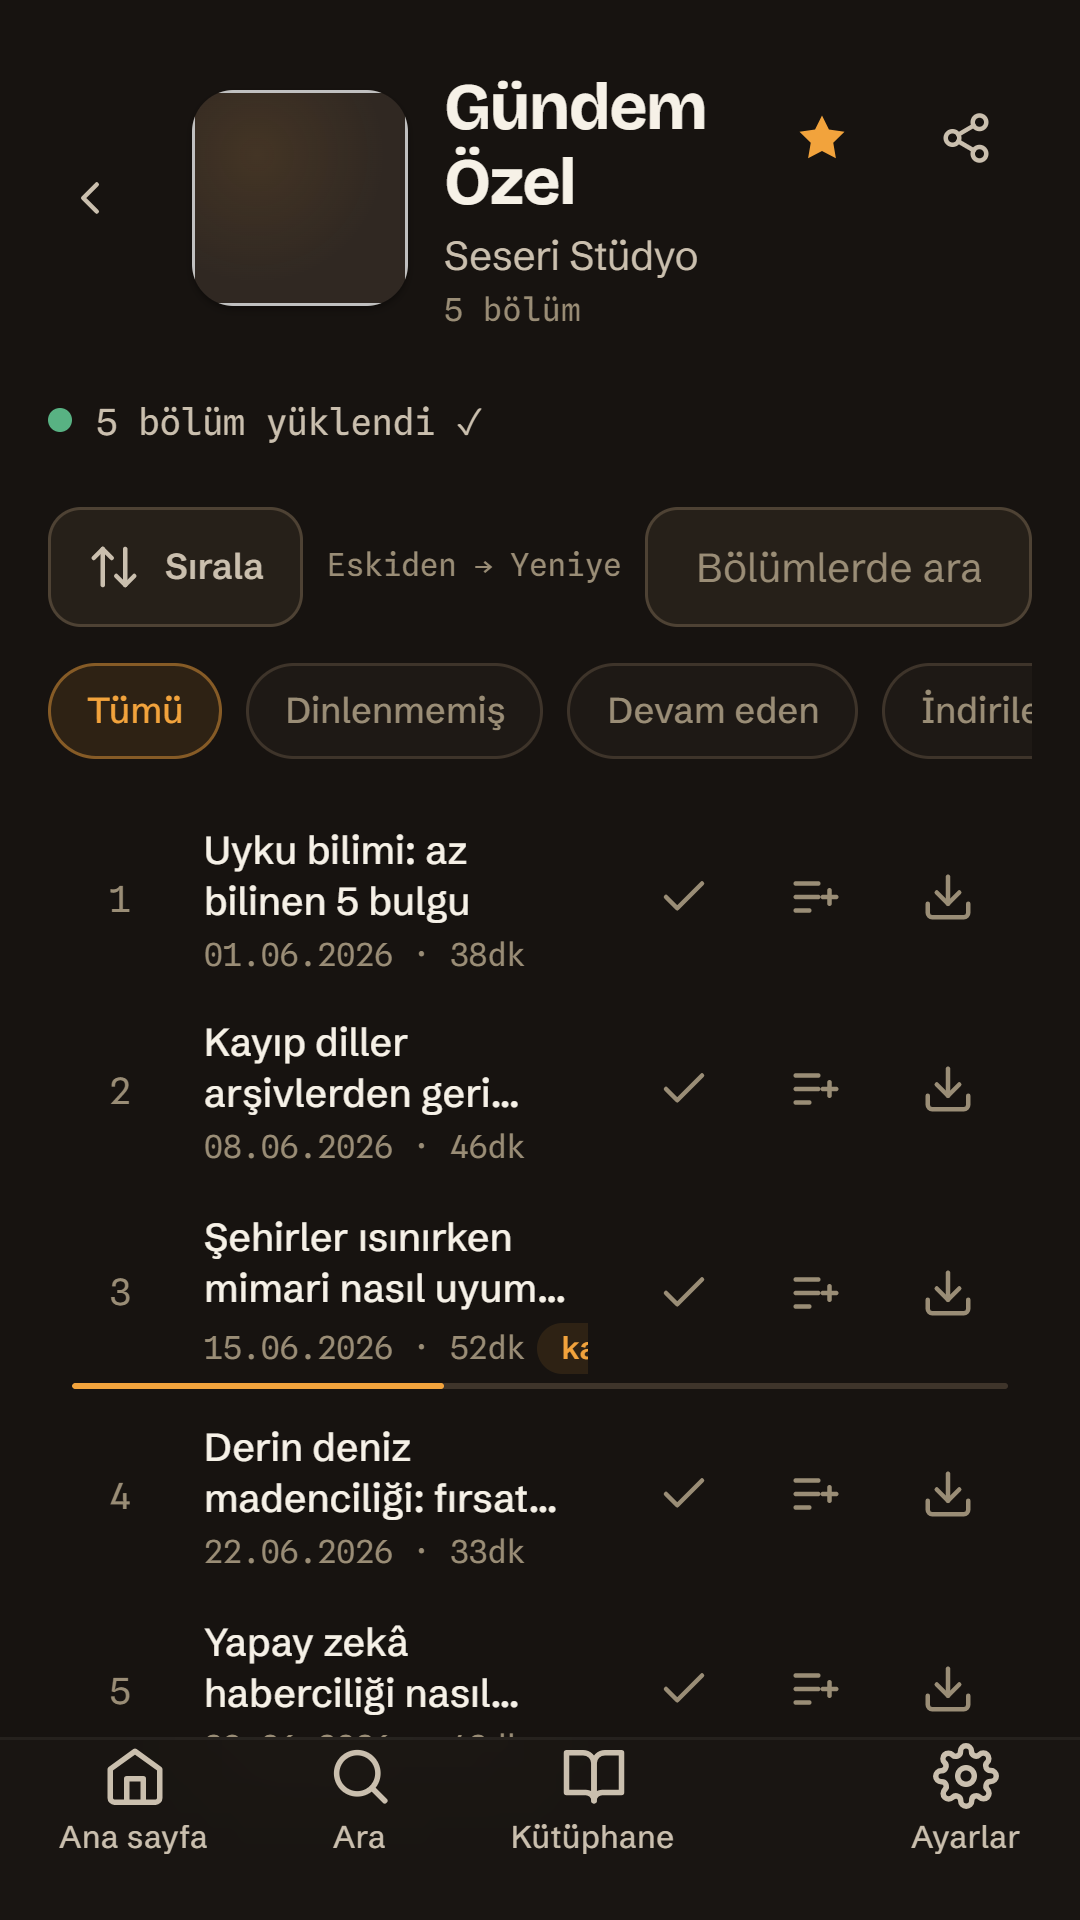
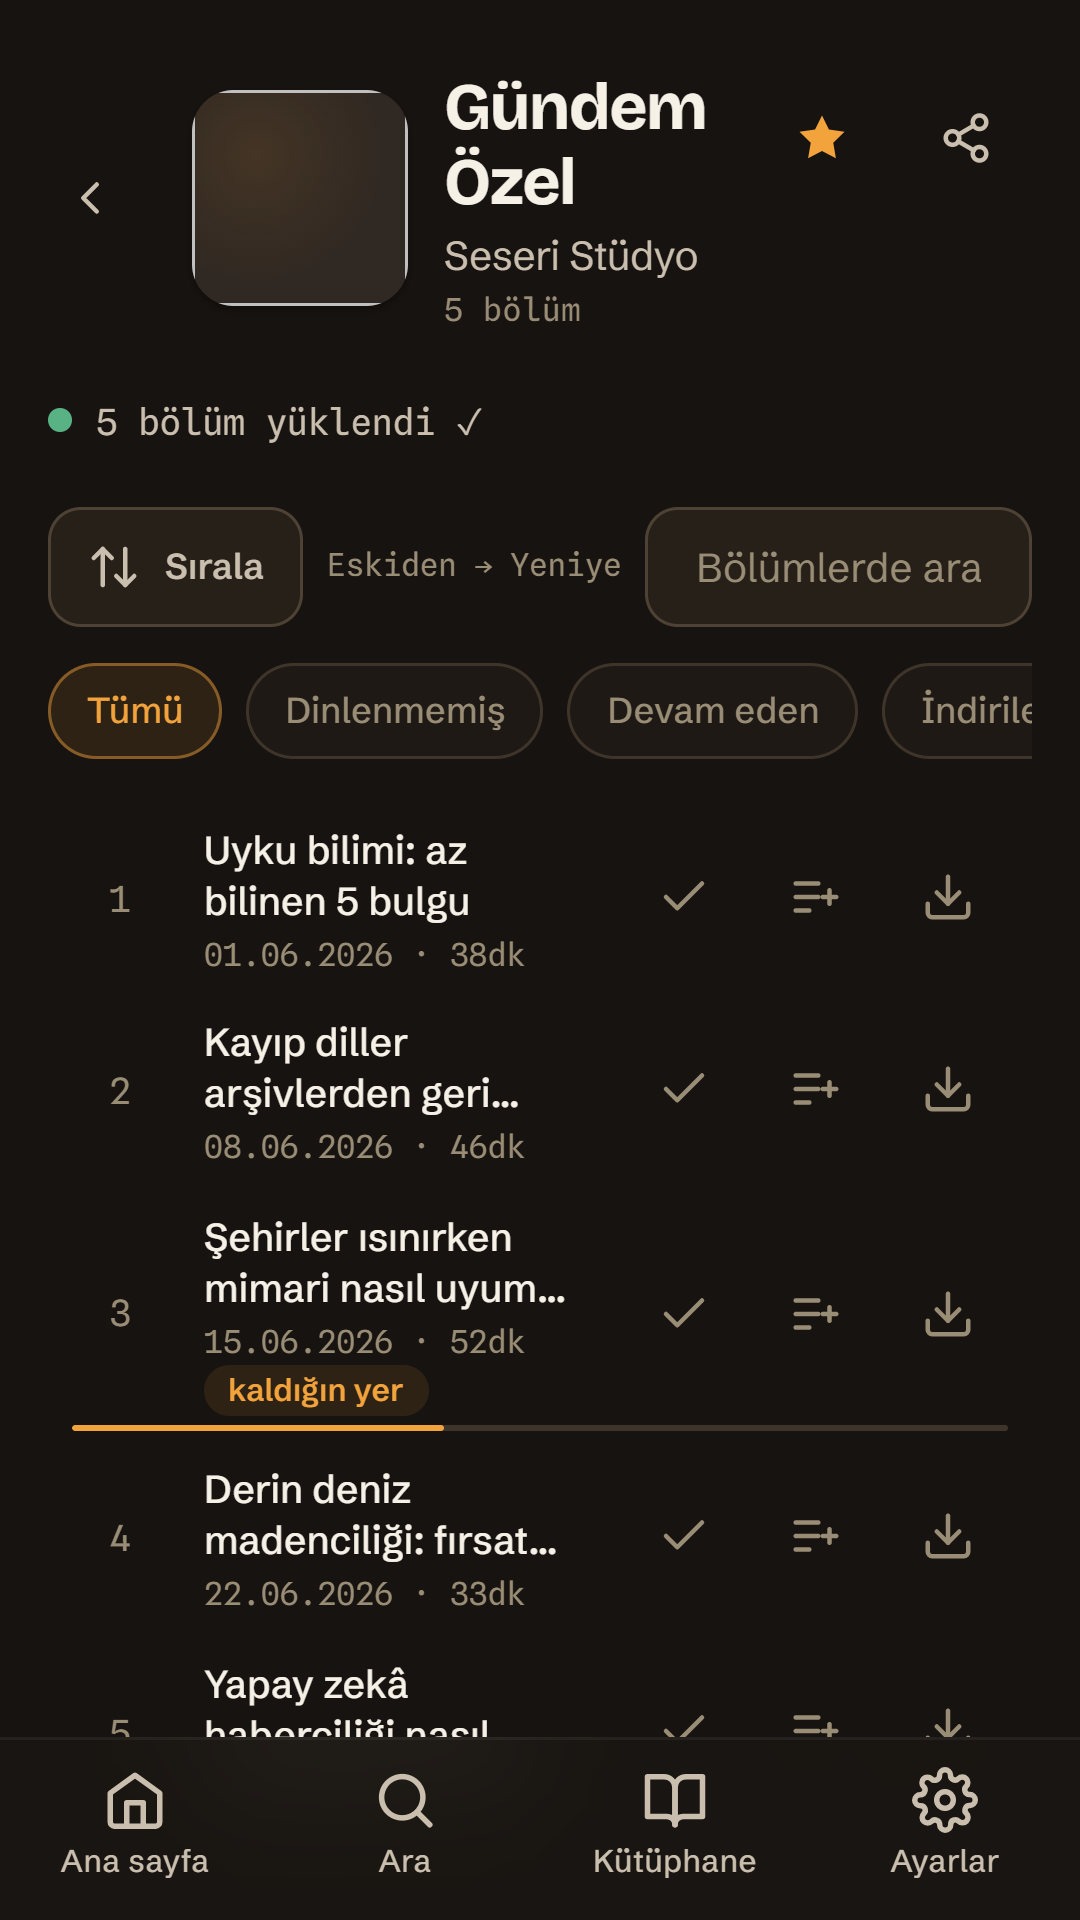
release: 4.2.12 — new screenshots, and the three layout faults they showed
The phone's tab bar had an empty slot between Library and Settings, and its
tabs were as wide as their labels; they are four equal columns now. Settings
was never pinned to the bottom of the desktop rail, because the list it sits
in did not fill the rail; it is now, expanded and collapsed. The resume badge
was clipped to two letters on a phone; the date line wraps instead.

Both screenshot sets are regenerated: public/screenshots (the manifest's
install screenshots) and docs/screens-v4.

diff --git a/src/styles/layout.css b/src/styles/layout.css
@@ -106,7 +106,14 @@
     padding-block-end: env(safe-area-inset-bottom, 0px);
   }
   .nav-items { justify-content: space-around; block-size: var(--tabbar-h); }
+  /* One equal column per tab. `flex: 1` on the button did nothing while its
+     parent was a plain <li>, so each tab was as wide as its label and the
+     centres drifted with the translation ("Kütüphane" vs "Ara"). */
+  .nav-items > li { flex: 1; display: flex; justify-content: center; }
   .nav-item { flex: 1; max-width: 120px; }
+  /* The rail's spacer is an empty tab slot here, and `space-around` gave it a
+     share of the bar — the gap between Library and Settings. */
+  .nav-items .nav-spring { display: none; }
 }
 
 /* Desktop: static left sidebar */
@@ -154,7 +161,10 @@
     font-weight: 700;
     letter-spacing: -0.02em;
   }
-  .nav-items { flex-direction: column; gap: var(--s-1); }
+  /* Grows to the rail's height, so the spacer below has room to push Settings
+     to the bottom. Without it the column was only as tall as its items, the
+     spacer had nothing to fill, and Settings sat straight under Library. */
+  .nav-items { flex-direction: column; gap: var(--s-1); flex: 1 0 auto; }
   .nav-item {
     flex-direction: row;
     justify-content: flex-start;

diff --git a/src/styles/views/podcast.css b/src/styles/views/podcast.css
@@ -310,10 +310,14 @@ body:not(.is-playing) .ep-eq i {
   color: var(--accent-2);
   font-weight: 600;
 }
+/* Wraps rather than clipping: on a phone the date, the duration and a badge
+   ("kaldığın yer", "продолжить") do not fit one line, and the badge was the
+   part cut off — two letters of it in the install screenshots. */
 .ep-date-dur {
   display: flex;
+  flex-wrap: wrap;
   align-items: center;
-  gap: var(--s-1);
+  gap: 2px var(--s-1);
   font-family: var(--font-mono);
   font-size: var(--fs-xs);
   color: var(--text3);

diff --git a/CHANGELOG.md b/CHANGELOG.md
@@ -4,6 +4,30 @@
 > reaching 100 rolls into the minor instead — `4.1.99` → `4.2.0`. Releases are
 > not semver-major-bumped for feature work.
 
+## 4.2.12 — 2026-09-28
+
+### Three layout faults the new screenshots showed
+
+Regenerating the screenshots — the three in the manifest are what people see
+when they install the app — turned up three faults, all older than this
+release:
+
+- **A gap in the phone's tab bar.** The spacer that exists to push Settings to
+  the bottom of the desktop rail was an empty fifth slot on a phone, and
+  `space-around` gave it a share of the bar. The tabs were also as wide as
+  their labels, so their centres drifted with the language. They are four equal
+  columns now (98 px apart at 390 px, in all eight languages; "Einstellungen"
+  still fits at 320 px).
+- **Settings was never at the bottom of the desktop rail.** The same spacer had
+  no room to grow, because the list it sits in was only as tall as its items;
+  Settings sat straight under Library. It is pinned to the bottom now, expanded
+  and collapsed, and a window too short for the list still scrolls instead of
+  overlapping.
+- **The resume badge was cut to two letters on a phone.** "15.06.2026 · 52dk ·
+  kaldığın yer" does not fit one line on a phone, and the badge was the part
+  that got clipped — in 14 of 20 language × width combinations measured. The
+  line now wraps and the badge moves under the date when it has to.
+
 ## 4.2.11 — 2026-09-27
 
 ### iTunes stops taking the long way round while Apple refuses the Worker

diff --git a/docs/TESTPLAN.md b/docs/TESTPLAN.md
@@ -162,8 +162,11 @@ Referans davranış: `v1-legacy` git etiketi (`git checkout v1-legacy` + `npx se
 - [ ] `[` tuşu her görünümden şeridi açıp kapatır; **Türkçe-Q klavyede aynı fiziksel tuş** (`ğ`) de çalışır; bir metin alanına yazarken çalışmaz; <900px'te hiçbir şey yapmaz. Kısayol listesinde (`?`) görünür.
 - [ ] ≥900px: Ana Sayfa'daki dil seçici, 720px'lik okuma sütununun değil **pencerenin** sağ üst köşesindedir; ilk satırın altına girmez.
 - [ ] <900px: alttan sekme çubuğu + tek panelli ekran davranışı korunur; daraltma düğmesi görünmez.
+- [ ] <900px: dört sekme **eşit aralıklı** (Kütüphane ile Ayarlar arasında boşluk yok); 320px'te en uzun etiket ("Einstellungen") sığar.
+- [ ] ≥900px: **Ayarlar kenar çubuğunun en altında**, açıkken de daraltılmışken de; pencere çok kısaysa öğeler üst üste binmez, şerit kayar.
 - [ ] Tema "Otomatik": işletim sistemi teması değişince uygulama canlı uyar (4 tema: Dark/Light/OLED Black + Otomatik).
 - [ ] Bölüm satırlarında ilerleme çizgisi; bitenler soluk + ✓.
+- [ ] Telefonda kayıtlı konumu olan bölümde **"kaldığın yer" rozeti kesilmeden** görünür (sığmazsa tarihin altına iner).
 
 ## 15. Responsive & erişilebilirlik denetimi
 
